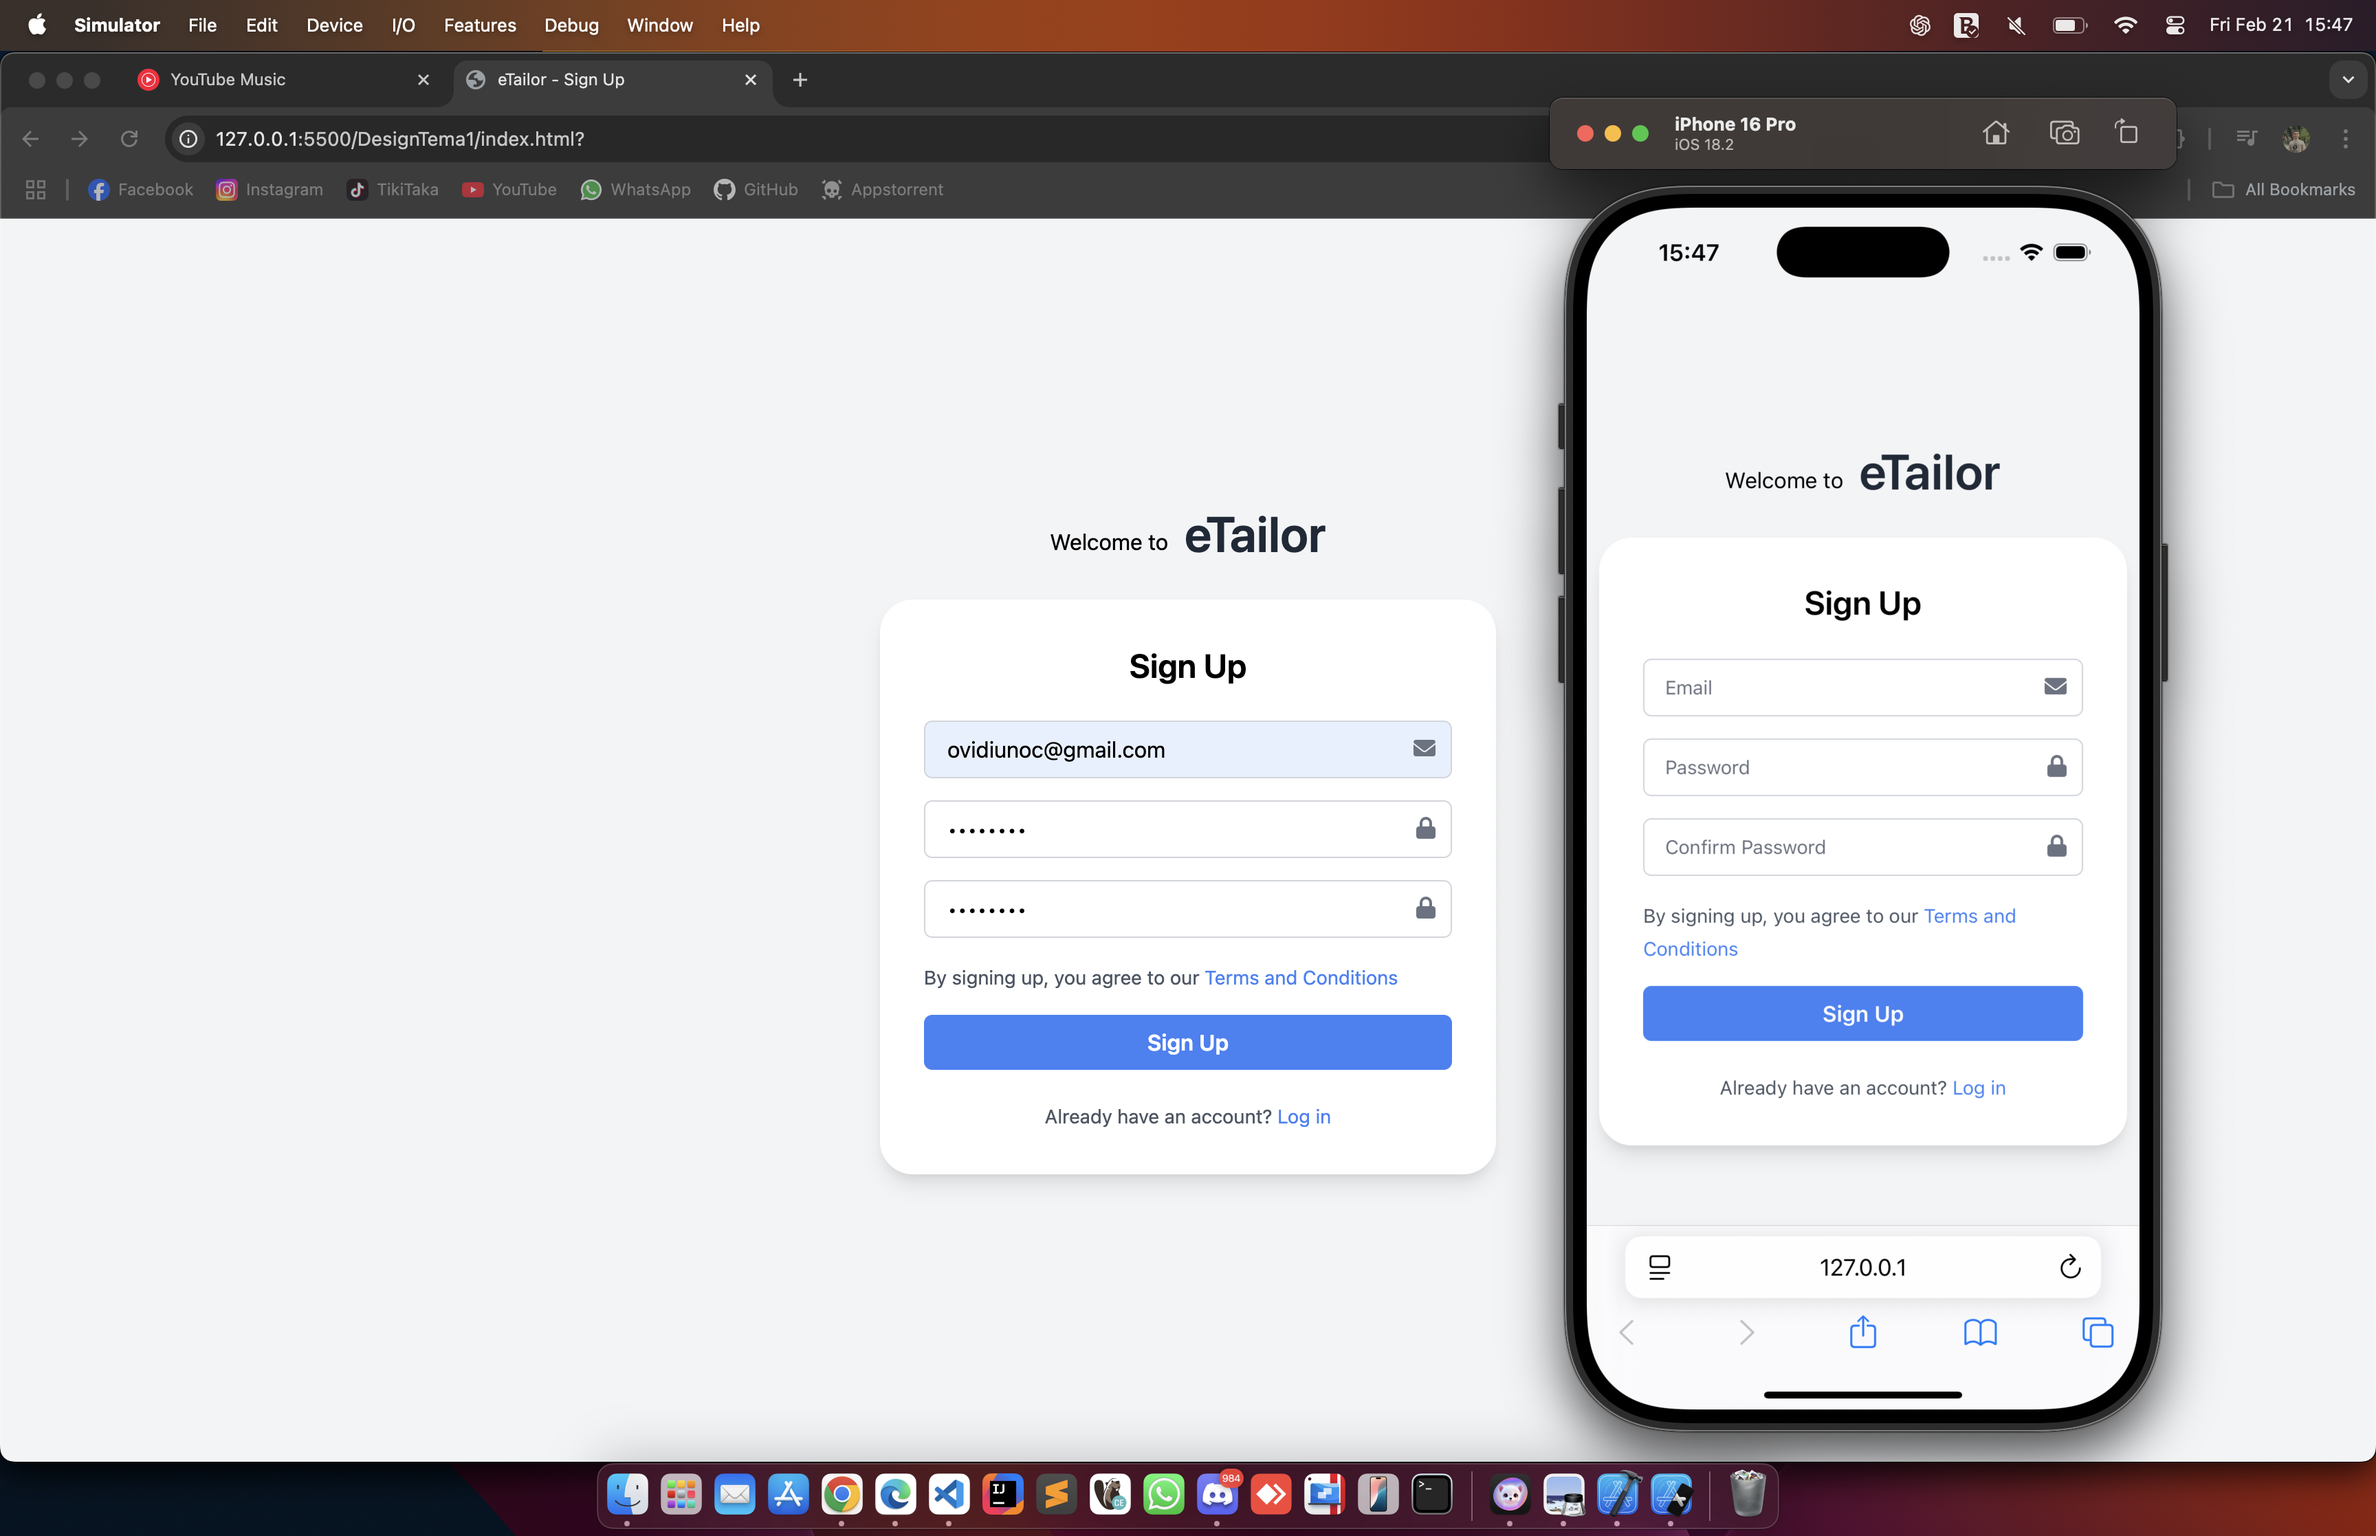
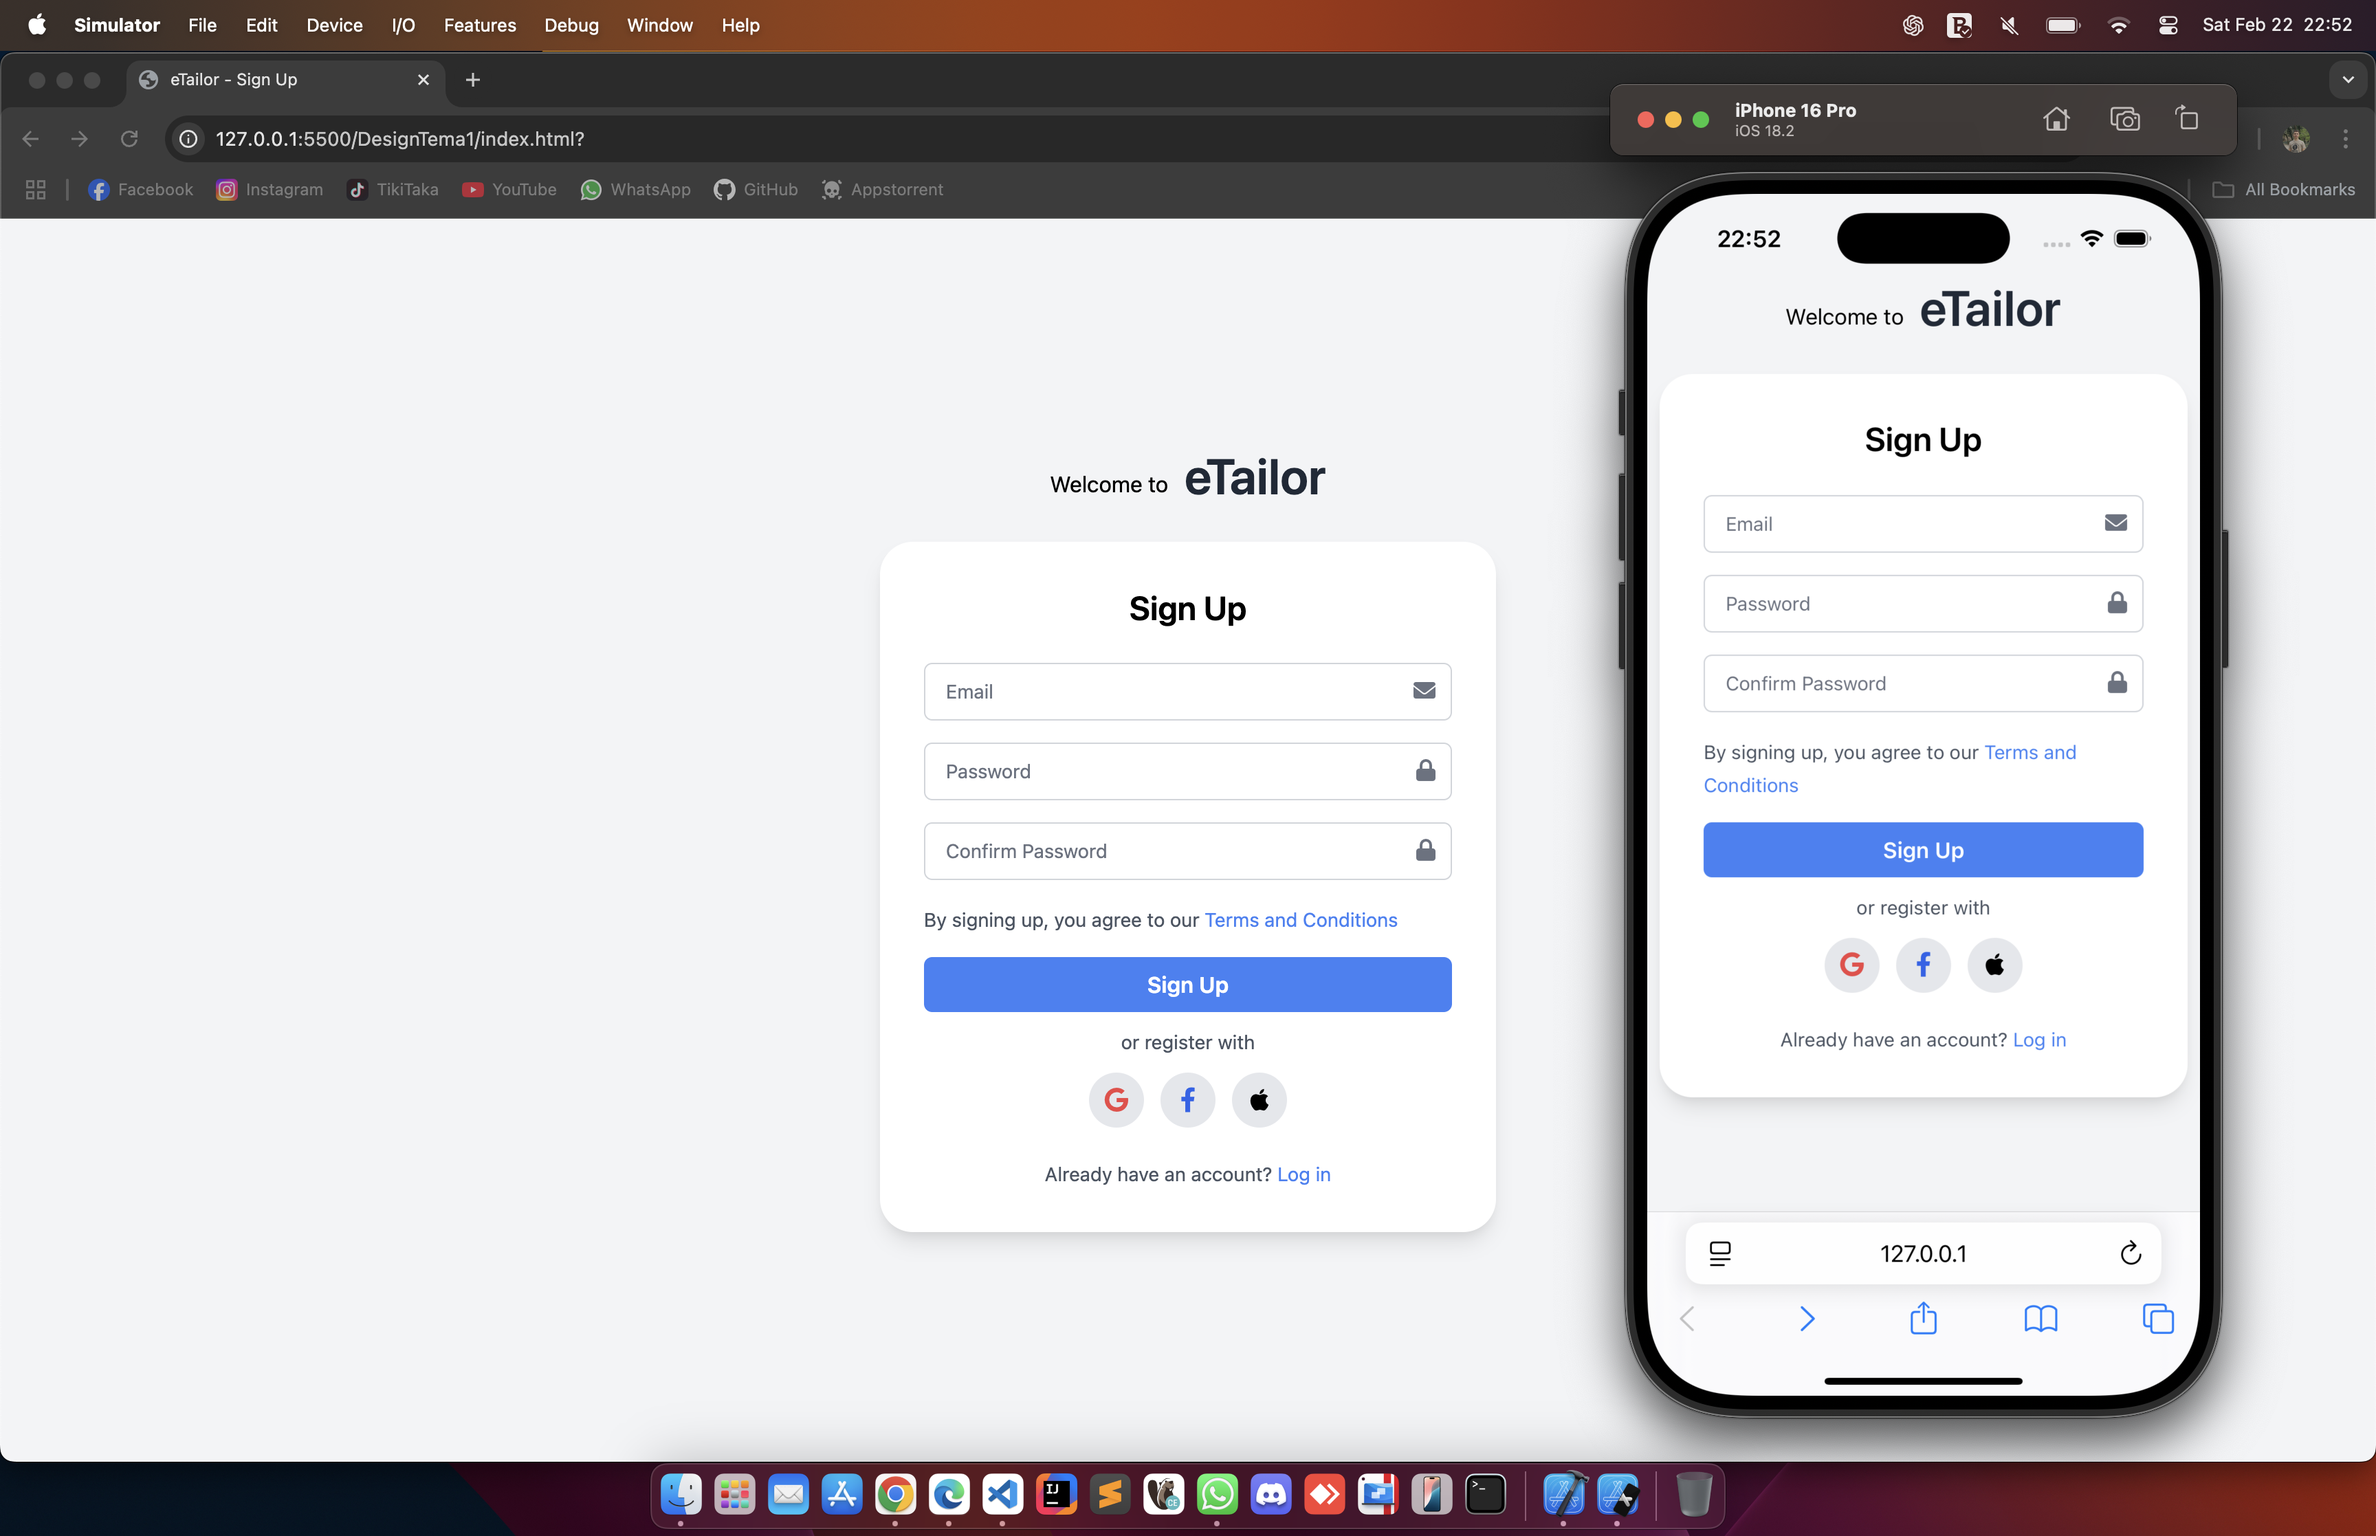
Updated register page

diff --git a/DesignTema1/index.html b/DesignTema1/index.html
@@ -37,8 +37,23 @@
                 By signing up, you agree to our <a class="text-blue-500 hover:underline">Terms and Conditions</a>
             </label>
         </div>
-        <div class="mb-6">
-          <button type="submit" class="w-full py-2 bg-blue-500 text-white font-semibold rounded-md hover:bg-blue-600">Sign Up</button>
+        <div class="mb-3">
+          <button type="submit" class="w-full py-2 bg-blue-500 text-white font-semibold rounded-md hover:bg-blue-600">
+            Sign Up
+          </button>
+        </div>
+        <p class="w-full text-center text-sm text-gray-600 mb-3">or register with</p>
+        
+        <div class="flex justify-center space-x-3 mb-6">
+          <button class="w-10 h-10 flex items-center justify-center bg-gray-200 rounded-full hover:bg-gray-300">
+            <i class="fab fa-google text-red-500 text-lg"></i>
+          </button>
+          <button class="w-10 h-10 flex items-center justify-center bg-gray-200 rounded-full hover:bg-gray-300">
+            <i class="fab fa-facebook-f text-blue-600 text-lg"></i>
+          </button>
+          <button class="w-10 h-10 flex items-center justify-center bg-gray-200 rounded-full hover:bg-gray-300">
+            <i class="fab fa-apple text-black text-lg"></i>
+          </button>
         </div>
         <p class="text-center text-sm text-gray-600">Already have an account? <a class="text-blue-500 hover:underline">Log in</a></p>
       </form>
